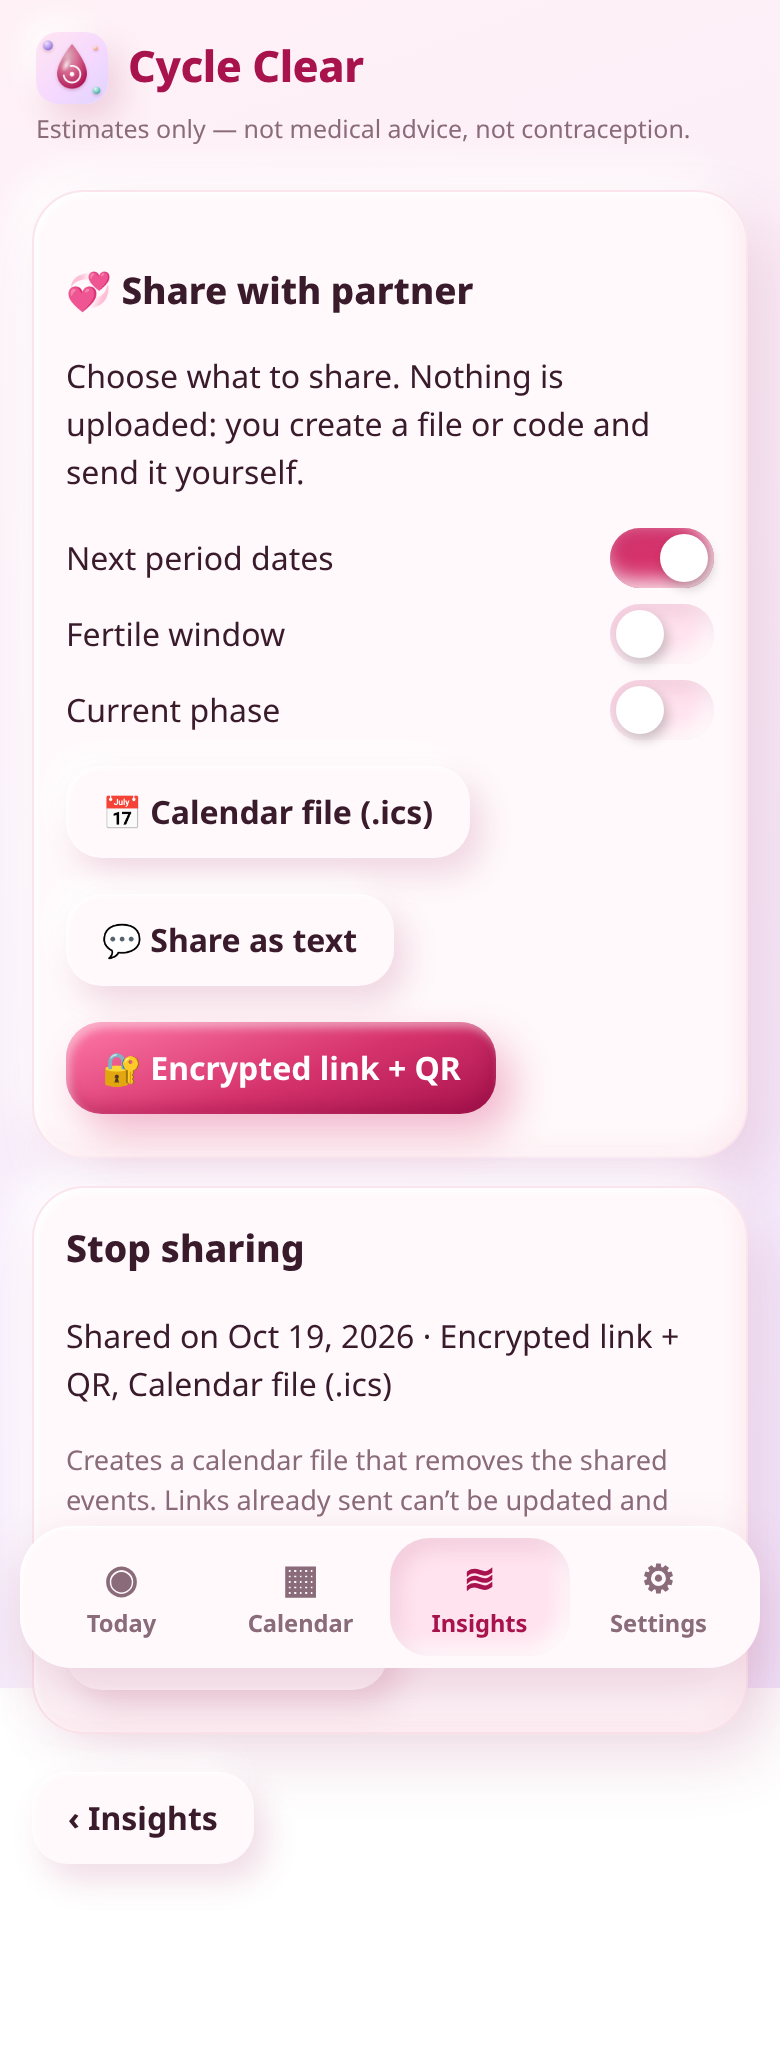
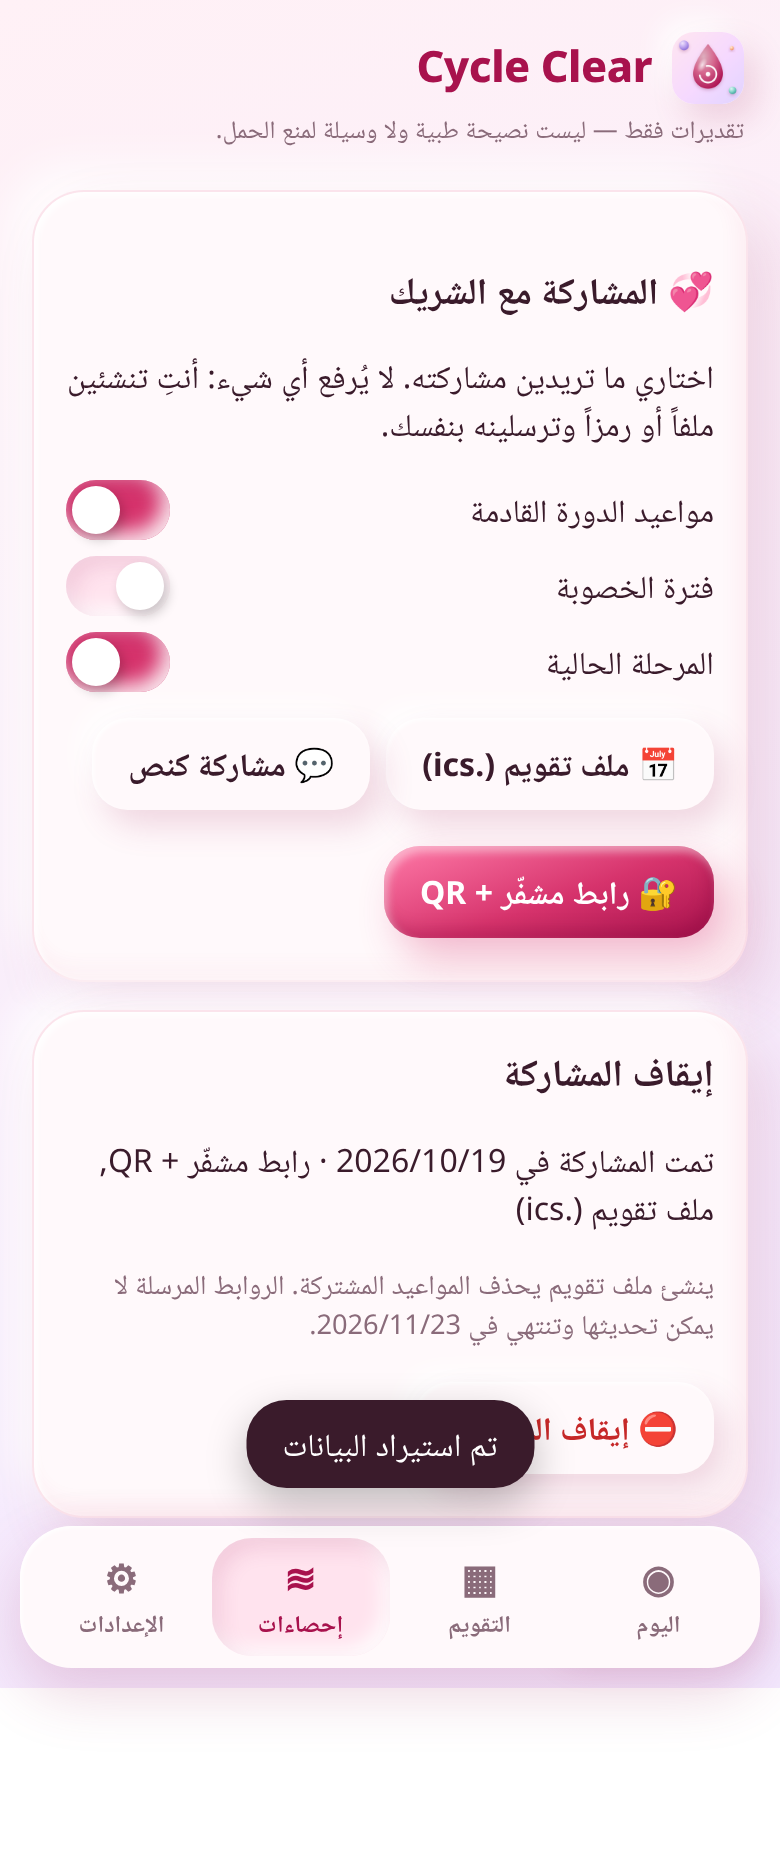
share: keep chosen fields

diff --git a/app.js b/app.js
@@ -244,9 +244,9 @@ function icsEvents(o, id) { const ev = []; const title = k => S.settings.discree
 async function sendFile(name, text, type) { if (N.isNative) return N.shareHtml(name, text); const a = document.createElement('a'); a.href = URL.createObjectURL(new Blob([text], { type })); a.download = name; a.click(); }
 const shareBase = () => N.isNative ? 'https://barood-labs.github.io/cycle-clear/' : location.origin + location.pathname;
 
-function share() { const st = S.settings, cur = st.share, hideF = ['bc', 'peri', 'preg'].includes(M());
+function share(F = { next: true, fertile: false, phase: false }) { const st = S.settings, cur = st.share, hideF = ['bc', 'peri', 'preg'].includes(M());
   shell('insights', `<div class="card clay"><h2>💞 ${t('share')}</h2><p>${t('shareIntro')}</p>
-   ${tog('f_next', true, t('sh_next'))}${hideF ? '' : tog('f_fertile', false, t('sh_fertile'))}${tog('f_phase', false, t('sh_phase'))}
+   ${tog('f_next', F.next, t('sh_next'))}${hideF ? '' : tog('f_fertile', F.fertile, t('sh_fertile'))}${tog('f_phase', F.phase, t('sh_phase'))}
    <div class="actions"><button class="btn" id="b_ics">📅 ${t('sh_ics')}</button><button class="btn" id="b_text">💬 ${t('sh_text')}</button><button class="btn primary" id="b_code">🔐 ${t('sh_code')}</button></div>
    <div id="codeout"></div></div>
    <div class="card clay" id="status"><h3>${t('sh_stop')}</h3>${cur ? `<p>${t('sh_active', fmt(dn(cur.at), { dateStyle: 'medium' }))} · ${cur.kinds.map(k => t('sh_' + k)).join(', ')}</p><p class="muted">${t('sh_stopNote', fmt(dn(cur.exp), { dateStyle: 'medium' }))}</p><button class="btn danger" id="b_stop">⛔ ${t('sh_stop')}</button>` : `<p class="muted" id="notsharing">${t('sh_none')}</p>`}</div>
@@ -255,11 +255,11 @@ function share() { const st = S.settings, cur = st.share, hideF = ['bc', 'peri',
   const record = async (kind, o, id) => { const c = st.share || { id: id || crypto.randomUUID().slice(0, 8), kinds: [], uids: [] }; c.at = o.at; c.exp = o.exp; if (!c.kinds.includes(kind)) c.kinds.push(kind);
     if (kind === 'ics') c.uids = [...new Set([...c.uids, ...icsEvents(o, c.id).map(e => e.uid)])]; st.share = c; await db.set('state', S); return c; };
   const pick = () => { const f = fields(); if (!f.next && !f.fertile && !f.phase) { toast(t('sh_pick')); return null; } return shareSnapshot(f); };
-  $('#b_ics').onclick = async () => { const o = pick(); if (!o) return; const c = await record('ics', o, st.share?.id); await sendFile('cycle-clear-shared.ics', SH.ics(icsEvents(o, c.id)), 'text/calendar'); share(); };
+  $('#b_ics').onclick = async () => { const o = pick(); if (!o) return; const c = await record('ics', o, st.share?.id); await sendFile('cycle-clear-shared.ics', SH.ics(icsEvents(o, c.id)), 'text/calendar'); share(fields()); };
   $('#b_text').onclick = async () => { const o = pick(); if (!o) return; const txt = snapshotText(o); await record('text', o);
-    if (navigator.share) { try { await navigator.share({ text: txt }); } catch { } } else { await navigator.clipboard?.writeText(txt).catch(() => { }); toast(t('sh_copied')); } share(); };
+    if (navigator.share) { try { await navigator.share({ text: txt }); } catch { } } else { await navigator.clipboard?.writeText(txt).catch(() => { }); toast(t('sh_copied')); } share(fields()); };
   $('#b_code').onclick = async () => { const o = pick(); if (!o) return; const pass = SH.newPass(), url = shareBase() + '#/p/' + await SH.seal(o, pass); await record('code', o);
-    const qr = await QR.toDataURL(url, { margin: 1, width: 360, color: { dark: '#3a1b2b', light: '#ffffff' } }); share();
+    const qr = await QR.toDataURL(url, { margin: 1, width: 360, color: { dark: '#3a1b2b', light: '#ffffff' } }); share(fields());
     $('#codeout').innerHTML = `<div class="card clay codebox"><img src="${qr}" alt="QR" class="qr"><p class="muted">${t('sh_codeNote')}</p><p>${t('sh_pass')}: <b class="pass" id="pass">${pass}</b></p>
       <input id="shareurl" readonly value="${esc(url)}" aria-label="link"><button class="btn" id="b_copy">${t('sh_copy')}</button></div>`;
     $('#b_copy').onclick = async () => { await navigator.clipboard?.writeText(url).catch(() => { }); toast(t('sh_copied')); }; };
